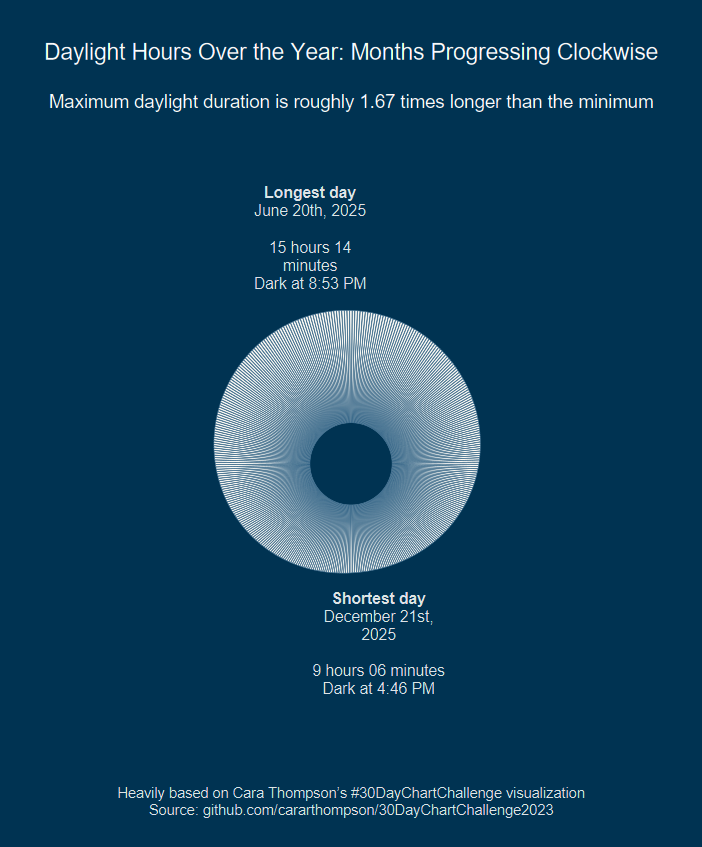
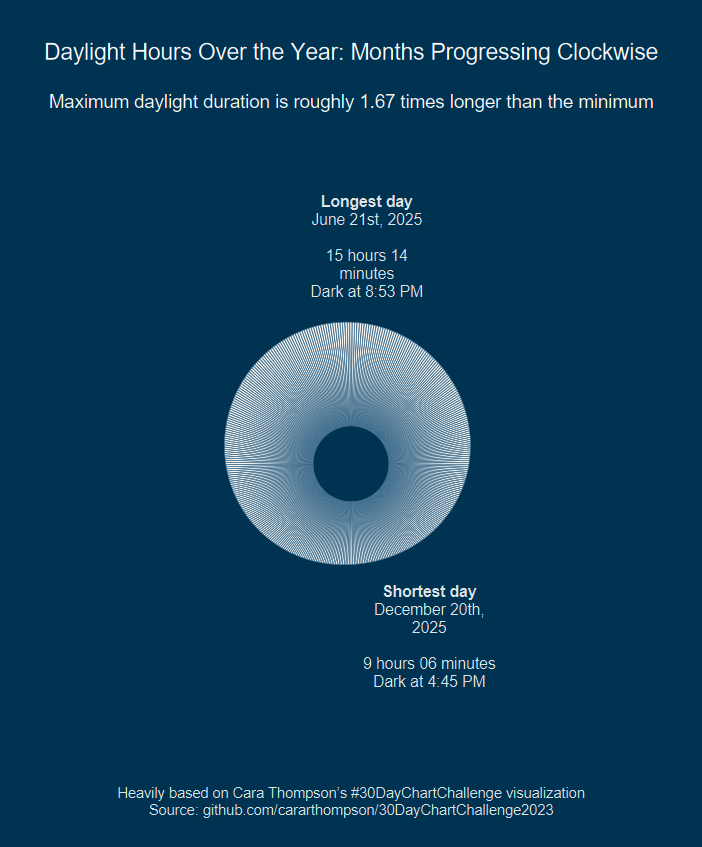
Add Svalbard and refresh other previews

diff --git a/README.md b/README.md
@@ -4,7 +4,7 @@ When I first moved to Ames, Iowa, one of the things that really surprised me was
 
 Recently, I came across an interesting [visualization](https://github.com/cararthompson/30DayChartChallenge2023?tab=readme-ov-file#day-11---circular----rstats) on LinkedIn by Cara Thompson. It showed daylight hours in Edinburgh in a circular format, and that inspired me to build a small [Shiny App](https://ashirwad-barnwal.shinyapps.io/daylight-hours/) where you can pick any location on Earth and see how daylight hours change throughout the year.
 
-Here are a few examples from places I’ve lived in or visited:
+Here are a few examples from places I’ve lived in or visited or are really interesting:
 
 ### Ranchi, Jharkhand, India (Hometown)
 
@@ -17,6 +17,8 @@ Here are a few examples from places I’ve lived in or visited:
 ### London, UK
 
 ![](previews/london.png)
+
+### Svalbard, Norway
 
 ## Acknowledgements
 
